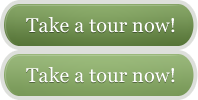
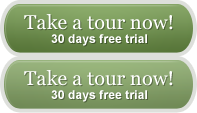
updated home page.

diff --git a/public/css/s36style.css b/public/css/s36style.css
@@ -79,7 +79,7 @@ a.navy{ color: #274D71; }
 	#banner-left h1.larger-text{ font-size: 35px; line-height: 50px; letter-spacing: -2px; } /***/
 	#banner-left ul{list-style:none;margin-top:20px;}
 	#banner-left ul li{background:url(../img/list-arrow.png) left center no-repeat;padding:0px 0px 7px 30px;color:#2c3237;}
-	#banner-left .take-tour-btn{width:198px;height:50px;background:url(../img/take-tour-btn.png) top no-repeat;margin-top:10px;	}
+	#banner-left .take-tour-btn{width:198px;height:57px;background:url(../img/take-tour-btn.png) top no-repeat;margin-top:10px;	}
 	#banner-left .take-tour-btn:hover{background-position:bottom;cursor:pointer;}
 	#banner-left p{ font-size:17px;text-align:justify; }
 	#banner-right{width:415px;float:left;height:320px; height: 360px; } /***/
